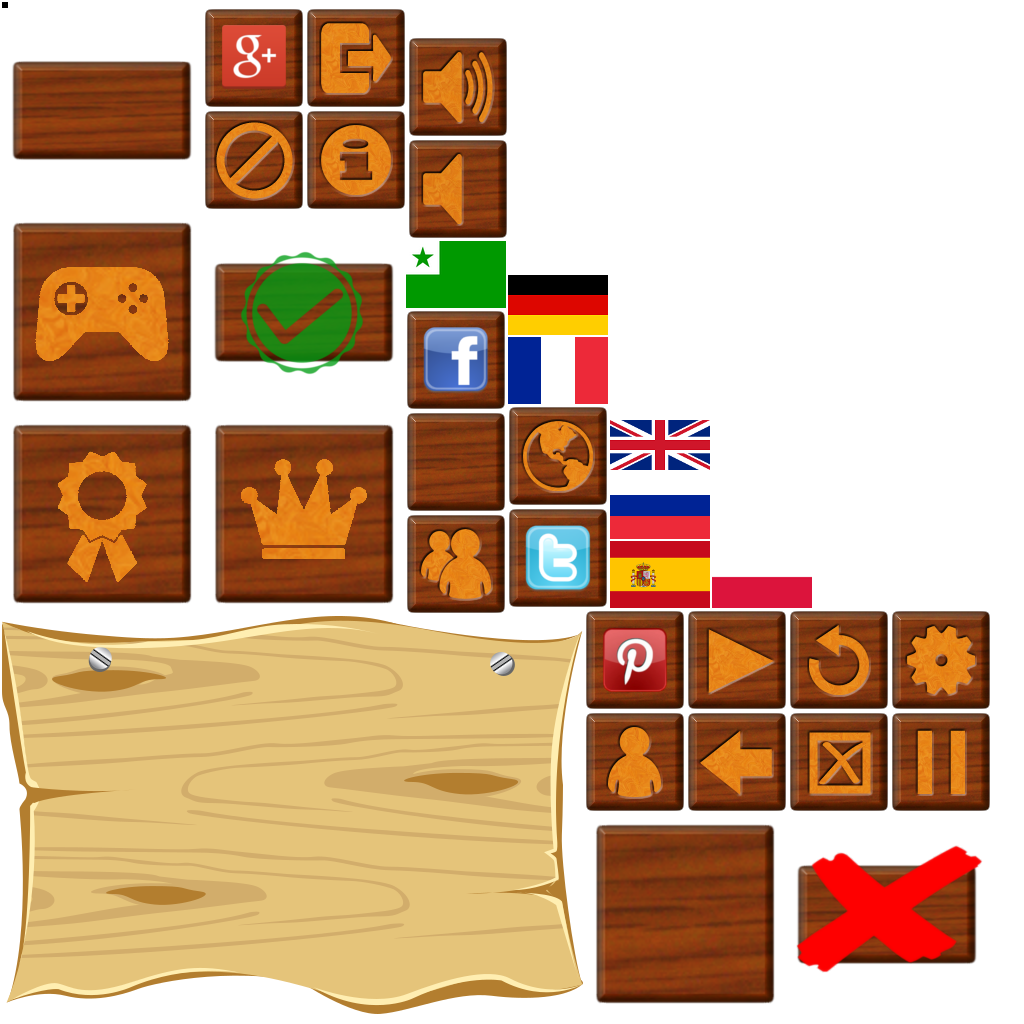
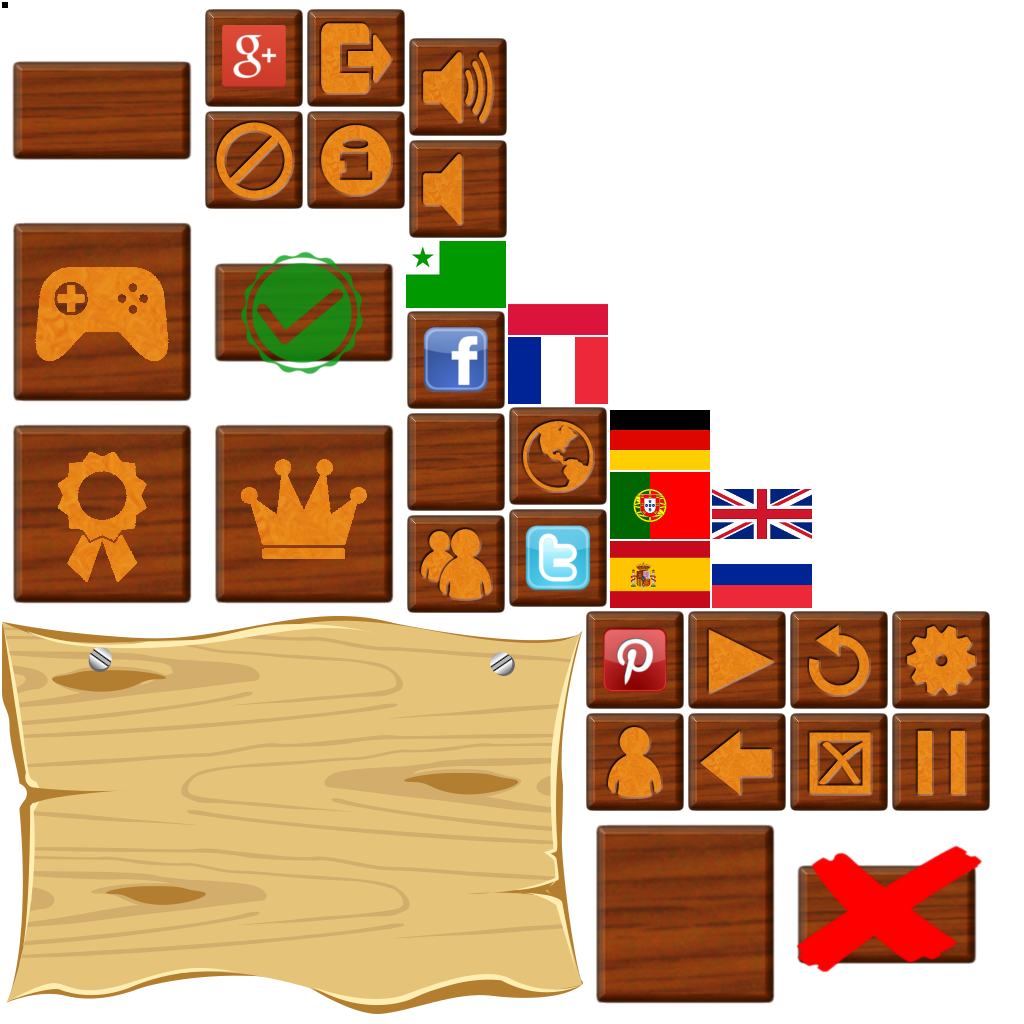
added portugues (translation, prop, flag, keyboard, test, names, screenshots)

Changed region(s): [[0.5938, 0.375, 0.8125, 0.5938], [0.4688, 0.25, 0.5938, 0.3438]]

diff --git a/tests/src-integration/com/gitlab/ardash/appleflinger/testing/integration/DesktopTestdriveTest.java b/tests/src-integration/com/gitlab/ardash/appleflinger/testing/integration/DesktopTestdriveTest.java
@@ -41,11 +41,12 @@ public class DesktopTestdriveTest implements ActionResolver{
 	
 //	private static final String [] langs = {"es", "fr"};
 //	private static final String [] langs = {"de","en","es","fr"};
-	private static final String [] langs = {"eo","pl"};
+//	private static final String [] langs = {"eo","pl"};
+	private static final String [] langs = {"pt"};
 //	private static final String [] langs = {"ru"}; // separate non-latin load
-	private static final Mission [] missions = {Mission.M_1_1, Mission.M_1_3, Mission.M_1_4
-		,Mission.M_1_5, Mission.M_1_11, Mission.M_1_14};
-//	private static final Mission [] missions = {Mission.M_2_3};
+//	private static final Mission [] missions = {Mission.M_1_1, Mission.M_1_3, Mission.M_1_4
+//		,Mission.M_1_5, Mission.M_1_11, Mission.M_1_14};
+	private static final Mission [] missions = {Mission.M_2_3};
 
 
 	@BeforeClass
@@ -104,6 +105,8 @@ public class DesktopTestdriveTest implements ActionResolver{
 		n2.put("fr", "Debonnaire".toUpperCase());
 		n1.put("pl", "Szymon".toUpperCase());
 		n2.put("pl", "Amelia".toUpperCase());
+		n1.put("pt", "Adriano".toUpperCase());
+		n2.put("pt", "Valencia".toUpperCase());
 		n1.put("ru", "Михаи́л".toUpperCase());
 		n2.put("ru", "Светлана".toUpperCase());
 		

diff --git a/core/src/com/gitlab/ardash/appleflinger/screens/LanguageDialog.java b/core/src/com/gitlab/ardash/appleflinger/screens/LanguageDialog.java
@@ -43,13 +43,14 @@ public class LanguageDialog extends AdvancedDialog{
 
 		getContentTable().add(makeLingoButton(Assets.SpriteAsset.BTN_REFRESH, "\n\n"+I18N.s("default")));
 		getContentTable().add(makeLingoButton(Assets.SpriteAsset.FLAG_DE, "\n\ndeutsch"));
-		getContentTable().row().minHeight(180).top();
 		getContentTable().add(makeLingoButton(Assets.SpriteAsset.FLAG_EN, "\n\nenglish"));
+		getContentTable().row().minHeight(180).top();
 		getContentTable().add(makeLingoButton(Assets.SpriteAsset.FLAG_EO, "\n\nesperanto"));
 		getContentTable().add(makeLingoButton(Assets.SpriteAsset.FLAG_ES, "\n\nespañol"));
-		getContentTable().row().minHeight(180).top();
 		getContentTable().add(makeLingoButton(Assets.SpriteAsset.FLAG_FR, "\n\nfrançais"));
+		getContentTable().row().minHeight(180).top();
 		getContentTable().add(makeLingoButton(Assets.SpriteAsset.FLAG_PL, "\n\npolski"));
+		getContentTable().add(makeLingoButton(Assets.SpriteAsset.FLAG_PT, "\n\nportuguês"));
 		getContentTable().add(makeLingoButton(Assets.SpriteAsset.FLAG_RU, "\n\nрусский"));
 
         getContentTable().row();

diff --git a/desktop/src/com/gitlab/ardash/appleflinger/desktop/DesktopLauncher.java b/desktop/src/com/gitlab/ardash/appleflinger/desktop/DesktopLauncher.java
@@ -19,6 +19,7 @@ package com.gitlab.ardash.appleflinger.desktop;
 import com.badlogic.gdx.Gdx;
 import com.badlogic.gdx.backends.lwjgl.LwjglApplication;
 import com.badlogic.gdx.backends.lwjgl.LwjglApplicationConfiguration;
+import com.badlogic.gdx.tools.texturepacker.TexturePacker;
 import com.badlogic.gdx.tools.texturepacker.TexturePacker.Settings;
 import com.gitlab.ardash.appleflinger.ActionResolver;
 import com.gitlab.ardash.appleflinger.AppleflingerGame;

diff --git a/core/src/com/gitlab/ardash/appleflinger/screens/TextInputDialog.java b/core/src/com/gitlab/ardash/appleflinger/screens/TextInputDialog.java
@@ -140,7 +140,7 @@ public class TextInputDialog extends AdvancedDialog{
 			tblContent.row();
 			tblContent.add(makeKeyboardRow("ZĈCVBNMĤ"));
 			tblContent.row();
-		} else if (langCode.equals("es")) {
+		} else if (langCode.equals("es") || langCode.equals("pt")) {
 			tblContent.row();
 			tblContent.add(makeKeyboardRow("QWERTYUIOPÜÚ"));
 	        tblContent.add(btnBackSpace);

diff --git a/tests/src/com/gitlab/ardash/appleflinger/testing/sanity/AssetTest.java b/tests/src/com/gitlab/ardash/appleflinger/testing/sanity/AssetTest.java
@@ -80,6 +80,13 @@ public class AssetTest {
 	}
 	
 	@Test
+	public void isI18NWorkingForPT() {
+		I18N.loadLanguageBundle("pt");
+		assertEquals("Não", I18N.s("no"));
+		assertEquals("entrada necessária", I18N.s("inputRequired"));
+	}
+	
+	@Test
 	public void isI18NWorkingForRU() {
 		I18N.loadLanguageBundle("ru");
 		assertEquals("Громкость", I18N.s("Volume"));

diff --git a/core/src/com/gitlab/ardash/appleflinger/global/Assets.java b/core/src/com/gitlab/ardash/appleflinger/global/Assets.java
@@ -282,6 +282,7 @@ public class Assets {
 		FLAG_ES,
 		FLAG_FR,
 		FLAG_PL,
+		FLAG_PT,
 		FLAG_RU,
 		BTN_INFO,
 		BTN_JOYPAD,
